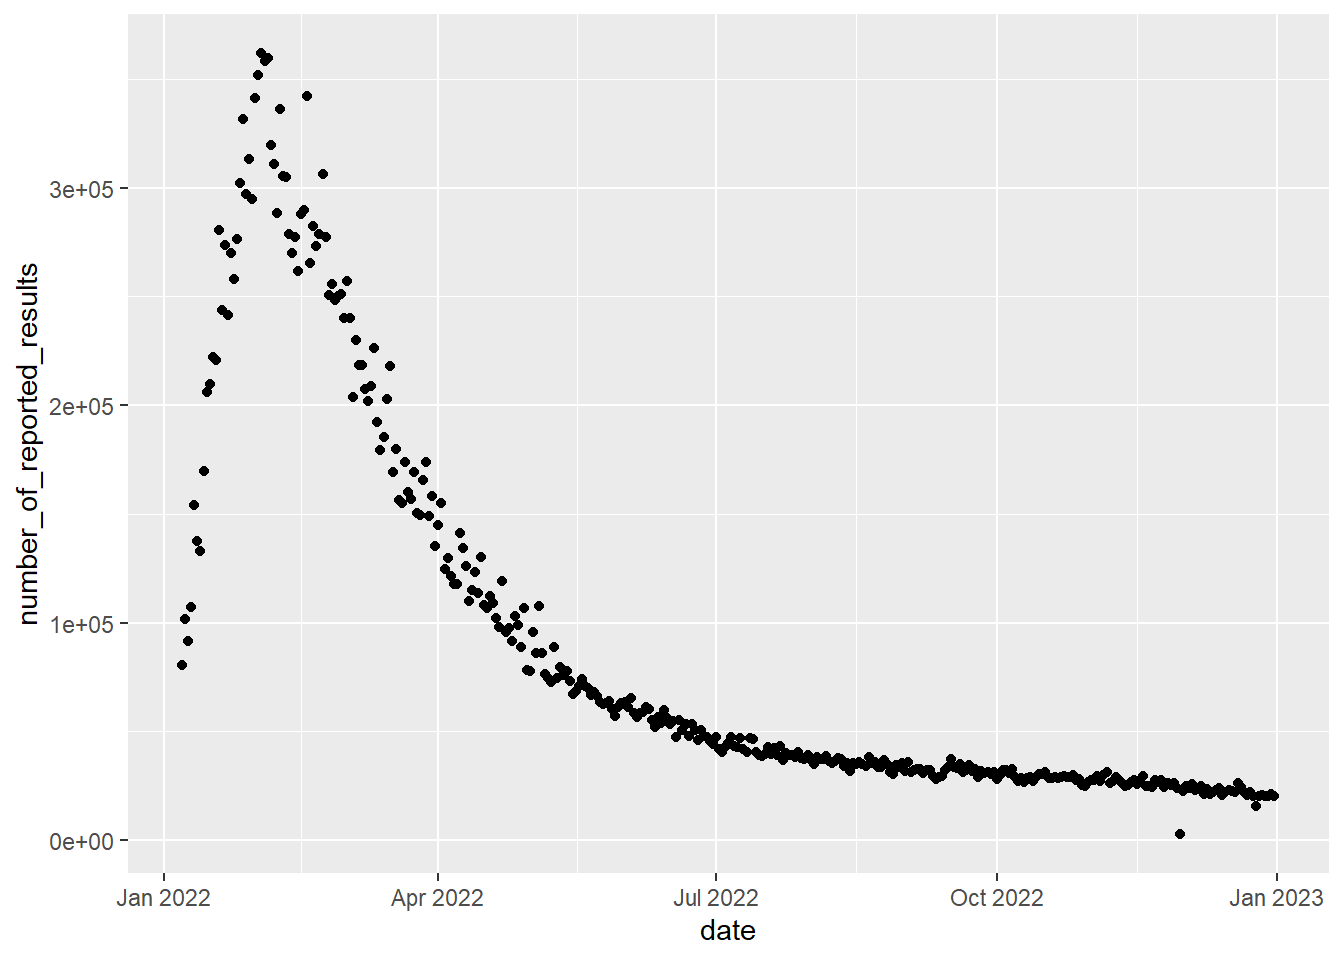
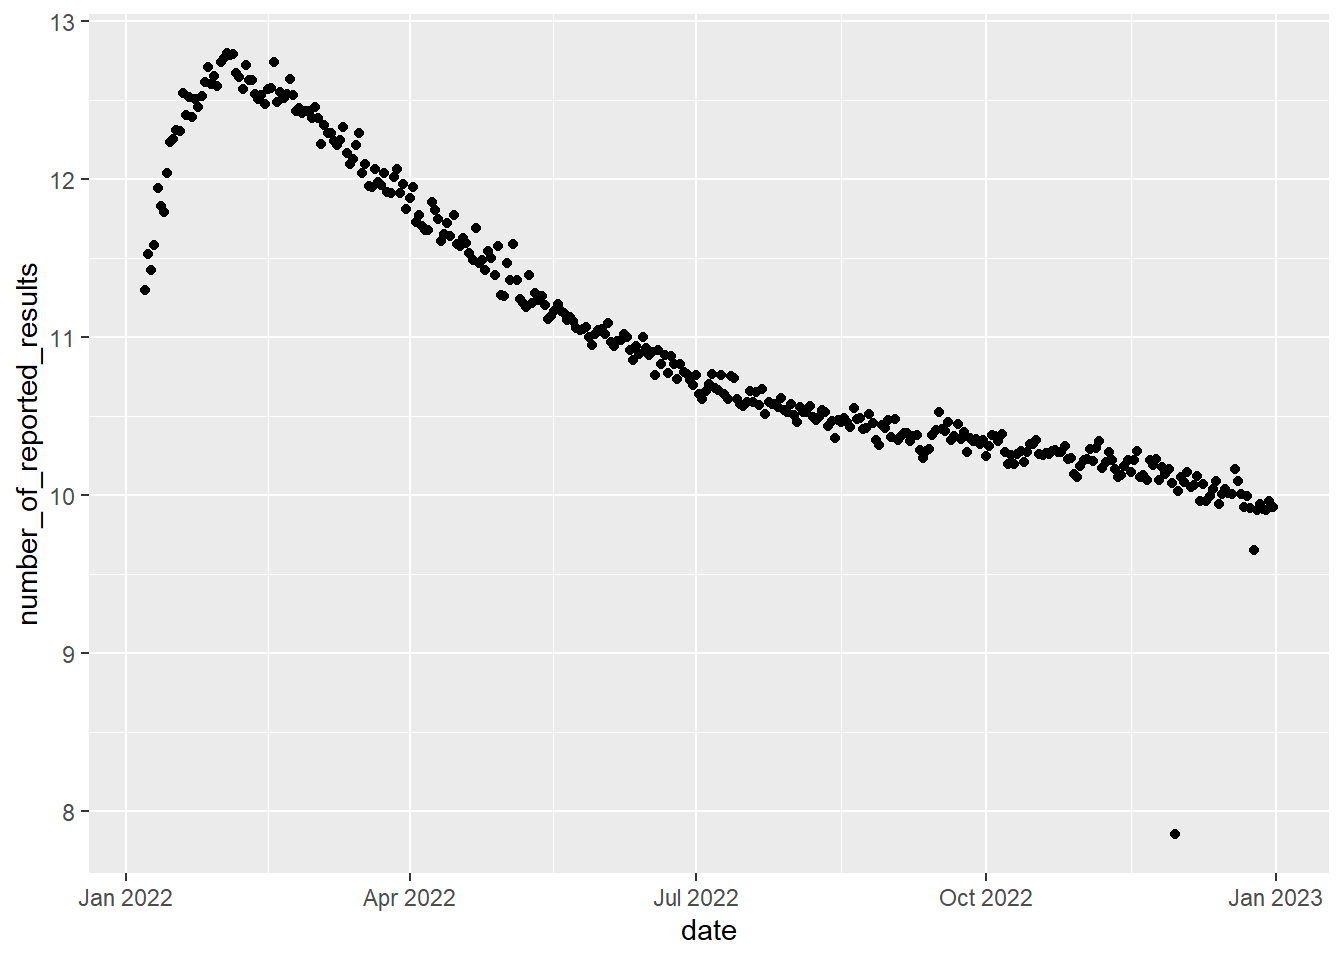
Tuned a Basic Regression Decision tree and Boosted Tree model.
Since the tuning takes so long, Ill remove that code soon.

diff --git a/mcm_comp.html b/mcm_comp.html
@@ -140,8 +140,9 @@ code span.wa { color: #60a0b0; font-weight: bold; font-style: italic; } /* Warni
 <span id="cb2-2"><a href="#cb2-2" aria-hidden="true" tabindex="-1"></a></span>
 <span id="cb2-3"><a href="#cb2-3" aria-hidden="true" tabindex="-1"></a><span class="co">#Comparing Date to number of people that participate</span></span>
 <span id="cb2-4"><a href="#cb2-4" aria-hidden="true" tabindex="-1"></a>data <span class="sc">%&gt;%</span> </span>
-<span id="cb2-5"><a href="#cb2-5" aria-hidden="true" tabindex="-1"></a>  <span class="fu">ggplot</span>(<span class="fu">aes</span>(<span class="at">x=</span>date, <span class="at">y=</span>number_of_reported_results))<span class="sc">+</span></span>
-<span id="cb2-6"><a href="#cb2-6" aria-hidden="true" tabindex="-1"></a>  <span class="fu">geom_point</span>()</span></code><button title="Copy to Clipboard" class="code-copy-button"><i class="bi"></i></button></pre></div>
+<span id="cb2-5"><a href="#cb2-5" aria-hidden="true" tabindex="-1"></a>  <span class="fu">mutate</span>(<span class="at">number_of_reported_results =</span> <span class="fu">log</span>(number_of_reported_results), <span class="at">base =</span> <span class="fu">exp</span>(<span class="dv">1</span>)) <span class="sc">%&gt;%</span> </span>
+<span id="cb2-6"><a href="#cb2-6" aria-hidden="true" tabindex="-1"></a>  <span class="fu">ggplot</span>(<span class="fu">aes</span>(<span class="at">x=</span>date, <span class="at">y=</span>number_of_reported_results))<span class="sc">+</span></span>
+<span id="cb2-7"><a href="#cb2-7" aria-hidden="true" tabindex="-1"></a>  <span class="fu">geom_point</span>()</span></code><button title="Copy to Clipboard" class="code-copy-button"><i class="bi"></i></button></pre></div>
 <div class="cell-output-display">
 <p><img src="mcm_comp_files/figure-html/unnamed-chunk-3-1.png" class="img-fluid" width="672"></p>
 </div>
@@ -180,9 +181,122 @@ i Use `x1_try` instead.</code></pre>
 </div>
 </div>
 </section>
-<section id="problem-1-predicting-number-of-players-getting-correct" class="level2">
-<h2 class="anchored" data-anchor-id="problem-1-predicting-number-of-players-getting-correct">Problem 1: Predicting number of players getting correct</h2>
-<p>This needs to be a regression model.</p>
+<section id="problem-1-predicting-number-of-players" class="level2">
+<h2 class="anchored" data-anchor-id="problem-1-predicting-number-of-players">Problem 1: Predicting number of players</h2>
+<p>This needs to be a regression model. This data is in no way linear so the first attempt is to create a nonlinear regression method.</p>
+<div class="cell">
+<div class="sourceCode cell-code" id="cb9"><pre class="sourceCode r code-with-copy"><code class="sourceCode r"><span id="cb9-1"><a href="#cb9-1" aria-hidden="true" tabindex="-1"></a><span class="co">#Creating Data splits</span></span>
+<span id="cb9-2"><a href="#cb9-2" aria-hidden="true" tabindex="-1"></a><span class="fu">set.seed</span>(<span class="dv">1234</span>)</span>
+<span id="cb9-3"><a href="#cb9-3" aria-hidden="true" tabindex="-1"></a>split<span class="ot">&lt;-</span><span class="fu">initial_split</span>(data, <span class="at">prop =</span> .<span class="dv">9</span>)</span>
+<span id="cb9-4"><a href="#cb9-4" aria-hidden="true" tabindex="-1"></a>training_data<span class="ot">&lt;-</span><span class="fu">training</span>(split)</span>
+<span id="cb9-5"><a href="#cb9-5" aria-hidden="true" tabindex="-1"></a>test_data<span class="ot">&lt;-</span><span class="fu">testing</span>(split)</span></code><button title="Copy to Clipboard" class="code-copy-button"><i class="bi"></i></button></pre></div>
+</div>
+<div class="cell">
+<div class="sourceCode cell-code" id="cb10"><pre class="sourceCode r code-with-copy"><code class="sourceCode r"><span id="cb10-1"><a href="#cb10-1" aria-hidden="true" tabindex="-1"></a><span class="do">## Basic Decision Tree ##</span></span>
+<span id="cb10-2"><a href="#cb10-2" aria-hidden="true" tabindex="-1"></a>untuned_reg_tree<span class="ot">&lt;-</span> <span class="fu">decision_tree</span>(<span class="at">mode =</span> <span class="st">"regression"</span>,</span>
+<span id="cb10-3"><a href="#cb10-3" aria-hidden="true" tabindex="-1"></a>                                 <span class="at">engine =</span> <span class="st">"rpart"</span>,</span>
+<span id="cb10-4"><a href="#cb10-4" aria-hidden="true" tabindex="-1"></a>                                 <span class="at">tree_depth =</span> <span class="fu">tune</span>(),</span>
+<span id="cb10-5"><a href="#cb10-5" aria-hidden="true" tabindex="-1"></a>                                 <span class="at">min_n =</span> <span class="fu">tune</span>(),</span>
+<span id="cb10-6"><a href="#cb10-6" aria-hidden="true" tabindex="-1"></a>                                 <span class="at">cost_complexity =</span> <span class="fu">tune</span>())</span>
+<span id="cb10-7"><a href="#cb10-7" aria-hidden="true" tabindex="-1"></a>reg_tree_grid<span class="ot">&lt;-</span><span class="fu">grid_regular</span>(<span class="fu">tree_depth</span>(),</span>
+<span id="cb10-8"><a href="#cb10-8" aria-hidden="true" tabindex="-1"></a>                            <span class="fu">cost_complexity</span>(),</span>
+<span id="cb10-9"><a href="#cb10-9" aria-hidden="true" tabindex="-1"></a>                            <span class="fu">min_n</span>(),</span>
+<span id="cb10-10"><a href="#cb10-10" aria-hidden="true" tabindex="-1"></a>                            <span class="at">levels =</span> <span class="dv">5</span>)</span>
+<span id="cb10-11"><a href="#cb10-11" aria-hidden="true" tabindex="-1"></a>folds<span class="ot">&lt;-</span><span class="fu">vfold_cv</span>(training_data)</span>
+<span id="cb10-12"><a href="#cb10-12" aria-hidden="true" tabindex="-1"></a>reg_tree_wf<span class="ot">&lt;-</span><span class="fu">workflow</span>() <span class="sc">%&gt;%</span> </span>
+<span id="cb10-13"><a href="#cb10-13" aria-hidden="true" tabindex="-1"></a>  <span class="fu">add_model</span>(untuned_reg_tree) <span class="sc">%&gt;%</span> </span>
+<span id="cb10-14"><a href="#cb10-14" aria-hidden="true" tabindex="-1"></a>  <span class="fu">add_formula</span>(number_of_reported_results <span class="sc">~</span> date)</span>
+<span id="cb10-15"><a href="#cb10-15" aria-hidden="true" tabindex="-1"></a></span>
+<span id="cb10-16"><a href="#cb10-16" aria-hidden="true" tabindex="-1"></a>reg_tree_results<span class="ot">&lt;-</span>reg_tree_wf <span class="sc">%&gt;%</span></span>
+<span id="cb10-17"><a href="#cb10-17" aria-hidden="true" tabindex="-1"></a>  <span class="fu">tune_grid</span>(<span class="at">resamples =</span> folds, <span class="at">grid =</span> reg_tree_grid)</span>
+<span id="cb10-18"><a href="#cb10-18" aria-hidden="true" tabindex="-1"></a></span>
+<span id="cb10-19"><a href="#cb10-19" aria-hidden="true" tabindex="-1"></a>best_reg_tree_params<span class="ot">&lt;-</span>reg_tree_results <span class="sc">%&gt;%</span></span>
+<span id="cb10-20"><a href="#cb10-20" aria-hidden="true" tabindex="-1"></a>  <span class="fu">select_best</span>()</span></code><button title="Copy to Clipboard" class="code-copy-button"><i class="bi"></i></button></pre></div>
+<div class="cell-output cell-output-stderr">
+<pre><code>Warning: No value of `metric` was given; metric 'rmse' will be used.</code></pre>
+</div>
+</div>
+<div class="cell">
+<div class="sourceCode cell-code" id="cb12"><pre class="sourceCode r code-with-copy"><code class="sourceCode r"><span id="cb12-1"><a href="#cb12-1" aria-hidden="true" tabindex="-1"></a><span class="co">#Tune Tree Model</span></span>
+<span id="cb12-2"><a href="#cb12-2" aria-hidden="true" tabindex="-1"></a>tuned_reg_tree<span class="ot">&lt;-</span><span class="fu">finalize_model</span>(untuned_reg_tree, best_reg_tree_params)</span>
+<span id="cb12-3"><a href="#cb12-3" aria-hidden="true" tabindex="-1"></a><span class="co">#Depicting Accuracy</span></span>
+<span id="cb12-4"><a href="#cb12-4" aria-hidden="true" tabindex="-1"></a>reg_tree_fit<span class="ot">&lt;-</span><span class="fu">last_fit</span>(tuned_reg_tree, number_of_reported_results <span class="sc">~</span> date, split) <span class="sc">%&gt;%</span></span>
+<span id="cb12-5"><a href="#cb12-5" aria-hidden="true" tabindex="-1"></a><span class="fu">collect_predictions</span>()</span>
+<span id="cb12-6"><a href="#cb12-6" aria-hidden="true" tabindex="-1"></a><span class="co">#Depicting Accuracy</span></span>
+<span id="cb12-7"><a href="#cb12-7" aria-hidden="true" tabindex="-1"></a>reg_tree_fit<span class="sc">%&gt;%</span></span>
+<span id="cb12-8"><a href="#cb12-8" aria-hidden="true" tabindex="-1"></a><span class="fu">ggplot</span>(<span class="fu">aes</span>(number_of_reported_results, .pred))<span class="sc">+</span></span>
+<span id="cb12-9"><a href="#cb12-9" aria-hidden="true" tabindex="-1"></a><span class="fu">geom_abline</span>(<span class="at">slope =</span> <span class="dv">1</span>, <span class="at">lty =</span> <span class="dv">2</span>, <span class="at">color =</span> <span class="st">"gray50"</span>, <span class="at">alpha =</span> <span class="fl">0.5</span>) <span class="sc">+</span></span>
+<span id="cb12-10"><a href="#cb12-10" aria-hidden="true" tabindex="-1"></a><span class="fu">geom_point</span>(<span class="at">alpha =</span> <span class="fl">0.6</span>, <span class="at">color =</span> <span class="st">"midnightblue"</span>) <span class="sc">+</span></span>
+<span id="cb12-11"><a href="#cb12-11" aria-hidden="true" tabindex="-1"></a><span class="fu">ggtitle</span>(<span class="st">"Regression Tree Prediction Accuracy"</span>)</span></code><button title="Copy to Clipboard" class="code-copy-button"><i class="bi"></i></button></pre></div>
+<div class="cell-output-display">
+<p><img src="mcm_comp_files/figure-html/unnamed-chunk-6-1.png" class="img-fluid" width="672"></p>
+</div>
+</div>
+<p>Boosted Tree</p>
+<div class="cell">
+<div class="sourceCode cell-code" id="cb13"><pre class="sourceCode r code-with-copy"><code class="sourceCode r"><span id="cb13-1"><a href="#cb13-1" aria-hidden="true" tabindex="-1"></a><span class="do">## Boosted Tree xGBoost ##</span></span>
+<span id="cb13-2"><a href="#cb13-2" aria-hidden="true" tabindex="-1"></a>untuned_reg_xgb<span class="ot">&lt;-</span><span class="fu">boost_tree</span>(<span class="at">mode =</span> <span class="st">"regression"</span>,</span>
+<span id="cb13-3"><a href="#cb13-3" aria-hidden="true" tabindex="-1"></a><span class="at">engine =</span> <span class="st">"xgboost"</span>,</span>
+<span id="cb13-4"><a href="#cb13-4" aria-hidden="true" tabindex="-1"></a><span class="at">mtry =</span> <span class="fu">tune</span>(),</span>
+<span id="cb13-5"><a href="#cb13-5" aria-hidden="true" tabindex="-1"></a><span class="at">trees =</span> <span class="dv">1000</span>,</span>
+<span id="cb13-6"><a href="#cb13-6" aria-hidden="true" tabindex="-1"></a><span class="at">min_n =</span> <span class="fu">tune</span>(),</span>
+<span id="cb13-7"><a href="#cb13-7" aria-hidden="true" tabindex="-1"></a><span class="at">tree_depth =</span> <span class="fu">tune</span>(),</span>
+<span id="cb13-8"><a href="#cb13-8" aria-hidden="true" tabindex="-1"></a><span class="at">learn_rate =</span> <span class="fu">tune</span>(),</span>
+<span id="cb13-9"><a href="#cb13-9" aria-hidden="true" tabindex="-1"></a><span class="at">sample_size =</span> <span class="fu">tune</span>(),</span>
+<span id="cb13-10"><a href="#cb13-10" aria-hidden="true" tabindex="-1"></a><span class="at">loss_reduction =</span> <span class="fu">tune</span>())</span>
+<span id="cb13-11"><a href="#cb13-11" aria-hidden="true" tabindex="-1"></a></span>
+<span id="cb13-12"><a href="#cb13-12" aria-hidden="true" tabindex="-1"></a><span class="co">#Tuning Boosted Tree</span></span>
+<span id="cb13-13"><a href="#cb13-13" aria-hidden="true" tabindex="-1"></a>reg_xgb_grid <span class="ot">&lt;-</span> <span class="fu">grid_latin_hypercube</span>(</span>
+<span id="cb13-14"><a href="#cb13-14" aria-hidden="true" tabindex="-1"></a><span class="fu">tree_depth</span>(),</span>
+<span id="cb13-15"><a href="#cb13-15" aria-hidden="true" tabindex="-1"></a><span class="fu">min_n</span>(),</span>
+<span id="cb13-16"><a href="#cb13-16" aria-hidden="true" tabindex="-1"></a><span class="fu">loss_reduction</span>(),</span>
+<span id="cb13-17"><a href="#cb13-17" aria-hidden="true" tabindex="-1"></a><span class="at">sample_size =</span> <span class="fu">sample_prop</span>(),</span>
+<span id="cb13-18"><a href="#cb13-18" aria-hidden="true" tabindex="-1"></a><span class="fu">finalize</span>(<span class="fu">mtry</span>(), training_data),</span>
+<span id="cb13-19"><a href="#cb13-19" aria-hidden="true" tabindex="-1"></a><span class="fu">learn_rate</span>(),</span>
+<span id="cb13-20"><a href="#cb13-20" aria-hidden="true" tabindex="-1"></a><span class="at">size =</span> <span class="dv">30</span></span>
+<span id="cb13-21"><a href="#cb13-21" aria-hidden="true" tabindex="-1"></a>)</span>
+<span id="cb13-22"><a href="#cb13-22" aria-hidden="true" tabindex="-1"></a></span>
+<span id="cb13-23"><a href="#cb13-23" aria-hidden="true" tabindex="-1"></a></span>
+<span id="cb13-24"><a href="#cb13-24" aria-hidden="true" tabindex="-1"></a>reg_xgb_wf <span class="ot">&lt;-</span> <span class="fu">workflow</span>() <span class="sc">%&gt;%</span></span>
+<span id="cb13-25"><a href="#cb13-25" aria-hidden="true" tabindex="-1"></a>  <span class="fu">add_formula</span>(number_of_reported_results <span class="sc">~</span> date) <span class="sc">%&gt;%</span></span>
+<span id="cb13-26"><a href="#cb13-26" aria-hidden="true" tabindex="-1"></a>  <span class="fu">add_model</span>(untuned_reg_xgb)</span>
+<span id="cb13-27"><a href="#cb13-27" aria-hidden="true" tabindex="-1"></a></span>
+<span id="cb13-28"><a href="#cb13-28" aria-hidden="true" tabindex="-1"></a>folds<span class="ot">&lt;-</span><span class="fu">vfold_cv</span>(training_data)</span>
+<span id="cb13-29"><a href="#cb13-29" aria-hidden="true" tabindex="-1"></a></span>
+<span id="cb13-30"><a href="#cb13-30" aria-hidden="true" tabindex="-1"></a>reg_xgb_res <span class="ot">&lt;-</span> <span class="fu">tune_grid</span>(reg_xgb_wf,</span>
+<span id="cb13-31"><a href="#cb13-31" aria-hidden="true" tabindex="-1"></a>                         <span class="at">resamples =</span> folds,</span>
+<span id="cb13-32"><a href="#cb13-32" aria-hidden="true" tabindex="-1"></a>                         <span class="at">grid =</span> reg_xgb_grid,</span>
+<span id="cb13-33"><a href="#cb13-33" aria-hidden="true" tabindex="-1"></a>                         <span class="at">control =</span> <span class="fu">control_grid</span>(<span class="at">save_pred =</span> <span class="cn">TRUE</span>))</span>
+<span id="cb13-34"><a href="#cb13-34" aria-hidden="true" tabindex="-1"></a>best_reg_xgb_params<span class="ot">&lt;-</span> <span class="fu">select_best</span>(reg_xgb_res)</span></code><button title="Copy to Clipboard" class="code-copy-button"><i class="bi"></i></button></pre></div>
+<div class="cell-output cell-output-stderr">
+<pre><code>Warning: No value of `metric` was given; metric 'rmse' will be used.</code></pre>
+</div>
+</div>
+<div class="cell">
+<div class="sourceCode cell-code" id="cb15"><pre class="sourceCode r code-with-copy"><code class="sourceCode r"><span id="cb15-1"><a href="#cb15-1" aria-hidden="true" tabindex="-1"></a><span class="co">#Tuned Model</span></span>
+<span id="cb15-2"><a href="#cb15-2" aria-hidden="true" tabindex="-1"></a>tuned_reg_xgb<span class="ot">&lt;-</span><span class="fu">finalize_model</span>(untuned_reg_xgb, best_reg_xgb_params)</span>
+<span id="cb15-3"><a href="#cb15-3" aria-hidden="true" tabindex="-1"></a></span>
+<span id="cb15-4"><a href="#cb15-4" aria-hidden="true" tabindex="-1"></a><span class="co">#Measuring Accuracy</span></span>
+<span id="cb15-5"><a href="#cb15-5" aria-hidden="true" tabindex="-1"></a>reg_xgb_fit<span class="ot">&lt;-</span><span class="fu">last_fit</span>(tuned_reg_xgb,number_of_reported_results <span class="sc">~</span> date, split) <span class="sc">%&gt;%</span></span>
+<span id="cb15-6"><a href="#cb15-6" aria-hidden="true" tabindex="-1"></a>  <span class="fu">collect_predictions</span>()</span>
+<span id="cb15-7"><a href="#cb15-7" aria-hidden="true" tabindex="-1"></a></span>
+<span id="cb15-8"><a href="#cb15-8" aria-hidden="true" tabindex="-1"></a>reg_xgb_fit<span class="sc">%&gt;%</span></span>
+<span id="cb15-9"><a href="#cb15-9" aria-hidden="true" tabindex="-1"></a>  <span class="fu">ggplot</span>(<span class="fu">aes</span>(number_of_reported_results, .pred))<span class="sc">+</span></span>
+<span id="cb15-10"><a href="#cb15-10" aria-hidden="true" tabindex="-1"></a>  <span class="fu">geom_abline</span>(<span class="at">slope =</span> <span class="dv">1</span>, <span class="at">lty =</span> <span class="dv">2</span>, <span class="at">color =</span> <span class="st">"gray50"</span>, <span class="at">alpha =</span> <span class="fl">0.5</span>) <span class="sc">+</span></span>
+<span id="cb15-11"><a href="#cb15-11" aria-hidden="true" tabindex="-1"></a>  <span class="fu">geom_point</span>(<span class="at">alpha =</span> <span class="fl">0.6</span>, <span class="at">color =</span> <span class="st">"midnightblue"</span>) <span class="sc">+</span></span>
+<span id="cb15-12"><a href="#cb15-12" aria-hidden="true" tabindex="-1"></a>  <span class="fu">ggtitle</span>(<span class="st">"Boosted Tree Prediction Accuracy"</span>)</span></code><button title="Copy to Clipboard" class="code-copy-button"><i class="bi"></i></button></pre></div>
+<div class="cell-output-display">
+<p><img src="mcm_comp_files/figure-html/unnamed-chunk-8-1.png" class="img-fluid" width="672"></p>
+</div>
+<div class="sourceCode cell-code" id="cb16"><pre class="sourceCode r code-with-copy"><code class="sourceCode r"><span id="cb16-1"><a href="#cb16-1" aria-hidden="true" tabindex="-1"></a><span class="co">#Predicting Number of Participants in March</span></span>
+<span id="cb16-2"><a href="#cb16-2" aria-hidden="true" tabindex="-1"></a>future_date<span class="ot">&lt;-</span><span class="fu">data_frame</span>(<span class="at">date =</span> <span class="fu">as.Date</span>(<span class="at">x =</span> <span class="st">"2023/3/1"</span>))</span></code><button title="Copy to Clipboard" class="code-copy-button"><i class="bi"></i></button></pre></div>
+<div class="cell-output cell-output-stderr">
+<pre><code>Warning: `data_frame()` was deprecated in tibble 1.1.0.
+i Please use `tibble()` instead.</code></pre>
+</div>
+<div class="sourceCode cell-code" id="cb18"><pre class="sourceCode r code-with-copy"><code class="sourceCode r"><span id="cb18-1"><a href="#cb18-1" aria-hidden="true" tabindex="-1"></a>reg_xgb_wf<span class="ot">&lt;-</span> reg_xgb_wf <span class="sc">%&gt;%</span>  </span>
+<span id="cb18-2"><a href="#cb18-2" aria-hidden="true" tabindex="-1"></a>  <span class="fu">update_model</span>(tuned_reg_xgb)</span></code><button title="Copy to Clipboard" class="code-copy-button"><i class="bi"></i></button></pre></div>
+</div>
 </section>
 
 </main>
